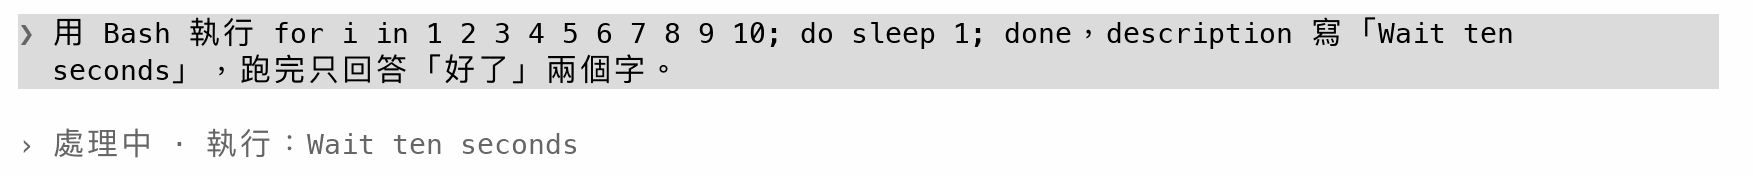
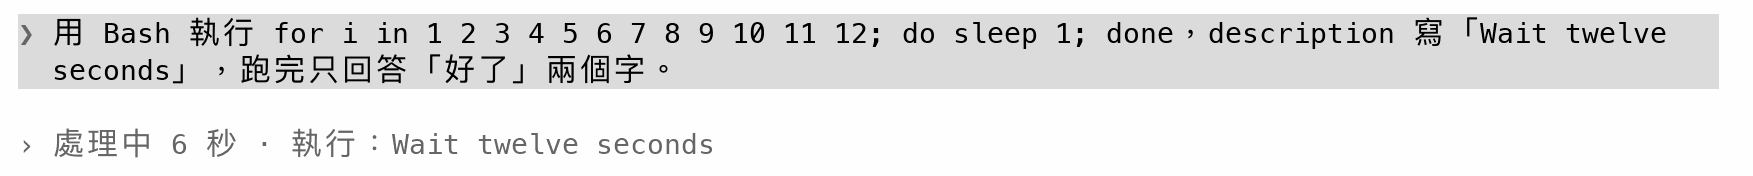
feat(tidy): 處理中的標頭加上經過的時間，每秒更新
工作中的標頭原本只寫「處理中 · 目前動作」，時間要等這一輪結束才出現
在「處理了 N 秒」，看不出已經跑多久。輪次在 turn.start 記下開始時間，
標頭改成「處理中 12 秒 · 執行：…」；$.clock.every 每秒重算進行中的那
一輪，只改寫標頭那一列，turn.complete（回答、Esc 中斷、出錯）時停止。
/reload-plugins 時最後一輪還在跑就接著計時。

實機錄一次 12 秒的指令，標頭每秒由 2 數到 6 秒，與 Spinner 一致，結束
後換成「處理了 16 秒」。README 第 3 節與 working.png 一併更新。版號升至
0.3.0。

Claude-Session: https://claude.ai/code/session_01PGhRno26gkTD2rY6CQZRtS

Changed region(s): [[0.4313, 0.0852, 0.9549, 0.2557], [0.0924, 0.7386, 0.4313, 0.9091]]

diff --git a/tidy/hooks/register.tsx b/tidy/hooks/register.tsx
@@ -1,5 +1,5 @@
 import { atom, memberOf, read, update } from 'claude-code'
-import type { EngineInterface, Register, RenderElement, RenderViewport, ResolveInput } from 'claude-code'
+import type { EngineInterface, Register, RenderElement, RenderViewport, ResolveInput, Timer } from 'claude-code'
 
 import type { Agent, Header, Turn, View } from '../types'
 
@@ -37,14 +37,43 @@ const change = async ($: EngineInterface, fn: (all: Turn[]) => Turn[]) => {
     after = fn(all)
     return after
   })
-  const open = await read($, expanded)
+  const [open, now] = await Promise.all([read($, expanded), $.clock.now()])
   for (const turn of after) {
     const old = before.find(t => t.id === turn.id)
     if (old !== turn) {
       const isOpen = open.includes(turn.id)
-      await paint($, old === undefined ? {} : views(old, isOpen), views(turn, isOpen))
+      await paint($, old === undefined ? {} : views(old, isOpen, now), views(turn, isOpen, now))
     }
   }
+}
+
+// 「處理中 12 秒」的時間每秒往前走：進行中的那一輪每秒重算一次，只有標頭那一列的畫法會變。
+// 這一輪結束（沒有進行中的輪次）就停。ticked 是上一次重算用的時間。
+let ticker: Timer | null = null
+let ticked = 0
+
+const tick = async ($: EngineInterface) => {
+  const current = (await read($, turns)).at(-1)
+  if (current === undefined || current.durationMs !== null) {
+    stopTicking()
+    return
+  }
+  const [open, now] = await Promise.all([read($, expanded), $.clock.now()])
+  const isOpen = open.includes(current.id)
+  await paint($, views(current, isOpen, ticked), views(current, isOpen, now))
+  ticked = now
+}
+
+const startTicking = async ($: EngineInterface) => {
+  if (ticker === null) {
+    ticked = await $.clock.now()
+    ticker = $.clock.every(1000, () => void tick($))
+  }
+}
+
+const stopTicking = () => {
+  ticker?.cancel()
+  ticker = null
 }
 
 const toggle = async ($: EngineInterface, id: string) => {
@@ -55,7 +84,8 @@ const toggle = async ($: EngineInterface, id: string) => {
   })
   const turn = (await read($, turns)).find(t => t.id === id)
   if (turn !== undefined) {
-    await paint($, views(turn, !isOpen), views(turn, isOpen))
+    const now = await $.clock.now()
+    await paint($, views(turn, !isOpen, now), views(turn, isOpen, now))
   }
 }
 
@@ -176,23 +206,31 @@ const card = async ($: EngineInterface, e: Drawn, report: string, name: string |
 }
 
 export const register: Register = on => {
-  // 重新載入 mod（/reload-plugins）時輪次表還在，照它把各列畫法補回來。新 session 的表是空的。
+  // 重新載入 mod（/reload-plugins）時輪次表還在，照它把各列畫法補回來；還在進行的那一輪接著計時。
+  // 新 session 的表是空的。
   on('session.start', async ($, e, next) => {
-    const open = await read($, expanded)
-    for (const turn of await read($, turns)) {
-      await paint($, {}, views(turn, open.includes(turn.id)))
+    const [open, now, all] = await Promise.all([read($, expanded), $.clock.now(), read($, turns)])
+    for (const turn of all) {
+      await paint($, {}, views(turn, open.includes(turn.id), now))
+    }
+    if (all.at(-1)?.durationMs === null) {
+      await startTicking($)
     }
     return next(e)
   })
 
   // 輪次表只記主對話；subagent 的輪次與列都帶 agentId。
   on('turn.start', async ($, e, next) => {
-    await change($, all => startTurn(all, e.turnId))
+    const startedAt = await $.clock.now()
+    await change($, all => startTurn(all, e.turnId, startedAt))
+    await startTicking($)
     return next(e)
   })
 
+  // 回答完、被中斷（Esc）或出錯都會結束這一輪。
   on('turn.complete', async ($, e, next) => {
     if (e.agentId === undefined) {
+      stopTicking()
       await change($, all => endTurn(all, e.turnId, e.durationMs))
     }
     return next(e)

diff --git a/tidy/hooks/turns.ts b/tidy/hooks/turns.ts
@@ -5,8 +5,8 @@ const KEEP = 200
 
 type Block = { readonly type: string; readonly [field: string]: unknown }
 
-export const startTurn = (turns: Turn[], id: string): Turn[] =>
-  [...turns, { id, rows: [], durationMs: null, errors: 0 }].slice(-KEEP)
+export const startTurn = (turns: Turn[], id: string, startedAt: number): Turn[] =>
+  [...turns, { id, rows: [], durationMs: null, errors: 0, startedAt }].slice(-KEEP)
 
 export const endTurn = (turns: Turn[], id: string, durationMs: number): Turn[] =>
   turns.map(t => (t.id === id ? { ...t, durationMs } : t))
@@ -137,12 +137,17 @@ export const textKey = (text: string) => {
 // 就是第一段思考）畫「處理了 …」，其餘藏起來：工具列一定畫得出來，文字列在有些 session 對不上。展開時
 // 標頭移到這一輪的第一列過程，展開的內容才會都在標頭下面。最後一段工具或思考之後的文字是回答。
 // 沒有過程列畫得出標頭時（例如這一輪只有一起開的 subagent），標頭畫在第一段回答上面；連回答也沒有
-// 就整輪照原樣，免得過程藏起來卻點不開。
-export const views = (turn: Turn, isOpen: boolean): Record<string, View> => {
+// 就整輪照原樣，免得過程藏起來卻點不開。now 是現在的時間，「處理中」後面寫已經過了多久。
+export const views = (turn: Turn, isOpen: boolean, now?: number): Record<string, View> => {
   const errors = turn.errors > 0 ? ` · ${turn.errors} 個錯誤` : ''
-  const now = doing(turn)
+  const action = doing(turn)
+  const elapsed = now === undefined || turn.startedAt === undefined ? '' : ` ${duration(now - turn.startedAt)}`
   const label =
-    turn.durationMs !== null ? `處理了 ${duration(turn.durationMs)}${errors}` : now === undefined ? '處理中…' : `處理中 · ${now}`
+    turn.durationMs !== null
+      ? `處理了 ${duration(turn.durationMs)}${errors}`
+      : action === undefined
+        ? `處理中${elapsed === '' ? '…' : elapsed}`
+        : `處理中${elapsed} · ${action}`
   const { rows } = turn
   const kinds = rows.map(r => r.kind)
   // 問你問題的工具列，與緊接在它前面的說明：照原樣顯示，不收進過程。說明可能是文字列，也可能是思考列

diff --git a/tidy/types/index.d.ts b/tidy/types/index.d.ts
@@ -23,6 +23,8 @@ export type Turn = {
   // 「處理中」標頭顯示它們。舊版記下的輪次沒有。
   running?: Step[]
   recent?: string
+  // 開始的時間（epoch 毫秒）；「處理中 12 秒」從這裡算。舊版記下的輪次沒有。
+  startedAt?: number
 }
 
 // 「處理了 …」標頭：哪一輪、標籤、是否展開。

diff --git a/tidy/README.en.md b/tidy/README.en.md
@@ -15,7 +15,7 @@ Tool calls and results, thinking that the screen shows, and the notes written be
 - **Your message**: keeps Claude Code's own grey style. tidy does not change it.
 - **Final answer**: the text after the last tool call. Its leading dot becomes a bold orange `✻`, and wrapped lines indent two cells to align.
 - When a tool fails, the line adds the count: `› 處理了 1 分 23 秒 · 1 個錯誤` ("1 min 23 s · 1 error").
-- **When Claude asks you something** (AskUserQuestion, or ExitPlanMode to approve a plan): the question and the note just before it stay in the conversation and do not fold. While Claude waits for your answer, the line reads `› 處理中 · 等你回答` ("working · waiting for your answer").
+- **When Claude asks you something** (AskUserQuestion, or ExitPlanMode to approve a plan): the question and the note just before it stay in the conversation and do not fold. While Claude waits for your answer, the line reads `› 處理中 N 秒 · 等你回答` ("working N s · waiting for your answer").
 - The `Worked for …` line at the end of each turn is hidden, because the time is already on the folded line.
 
 ### 2. Open the work
@@ -24,12 +24,13 @@ Click `›` and it turns into `⌄`. The work shows as Claude Code draws it, ind
 
 ![tidy screenshot: after a click, the work is indented under the "⌄" line](docs/expanded.png)
 
-### 3. The current step while Claude works
+### 3. The elapsed time and the current step while Claude works
 
-While Claude works, the line reads `› 處理中 · <current step>` ("working · …"):
+While Claude works, the line reads `› 處理中 N 秒 · <current step>` ("working N s · …"):
 
-![tidy screenshot: while Claude works, the line reads "處理中 · 執行：Wait ten seconds"](docs/working.png)
+![tidy screenshot: while Claude works, the line reads "處理中 6 秒 · 執行：Wait twelve seconds"](docs/working.png)
 
+- The time counts from the start of the turn and changes every second. When the turn ends, the line changes to `› 處理了 N 秒`.
 - While a tool runs, the line names the tool and its argument, for example `執行：Run the tests` ("run: …") or `讀取 register.tsx` ("read …"). With several tools at once it adds "等 n 項" ("and n more").
 - After a tool finishes, the line keeps the latest step until the next tool starts or the model writes a new note (it then shows the first sentence of that note or thinking).
 - A long line is cut to fit one row.

diff --git a/tidy/README.md b/tidy/README.md
@@ -15,7 +15,7 @@
 - **你的訊息**：維持 Claude Code 原本的灰底樣式，tidy 不改。
 - **最後回覆**：最後一次工具呼叫之後的文字。開頭的圓點換成橘色粗體的 `✻`，換行的部分縮排兩格對齊。
 - 有工具出錯時寫成 `› 處理了 1 分 23 秒 · 1 個錯誤`。
-- **問你問題時**（AskUserQuestion、批准計畫的 ExitPlanMode）：問題，以及緊接在它前面的說明，照原樣留在對話裡，不收進這一行；等你回答時這一行寫 `› 處理中 · 等你回答`。
+- **問你問題時**（AskUserQuestion、批准計畫的 ExitPlanMode）：問題，以及緊接在它前面的說明，照原樣留在對話裡，不收進這一行；等你回答時這一行寫 `› 處理中 N 秒 · 等你回答`。
 - 原本每輪結尾的 `Worked for …` 不再顯示，因為時間已經寫在這一行。
 
 ### 2. 點開看過程
@@ -24,12 +24,13 @@
 
 ![tidy 截圖：點開後，過程縮排在「⌄ 處理了」底下](docs/expanded.png)
 
-### 3. 工作中顯示目前的動作
+### 3. 工作中顯示經過的時間與目前的動作
 
-Claude 還在工作時，這一行寫成 `› 處理中 · 目前的動作`：
+Claude 還在工作時，這一行寫成 `› 處理中 N 秒 · 目前的動作`：
 
-![tidy 截圖：工作中的標頭寫著「處理中 · 執行：Wait ten seconds」](docs/working.png)
+![tidy 截圖：工作中的標頭寫著「處理中 6 秒 · 執行：Wait twelve seconds」](docs/working.png)
 
+- 時間從這一輪開始算，每秒更新。這一輪結束後換成 `› 處理了 N 秒`。
 - 工具在跑時寫工具和參數，例如 `執行：Run the tests`、`讀取 register.tsx`。同時跑好幾個時加上「等 n 項」。
 - 工具跑完後保留最近一個動作，直到下一個工具開始，或模型寫出新的說明（顯示說明或思考的第一句）。
 - 太長時截成一行。
